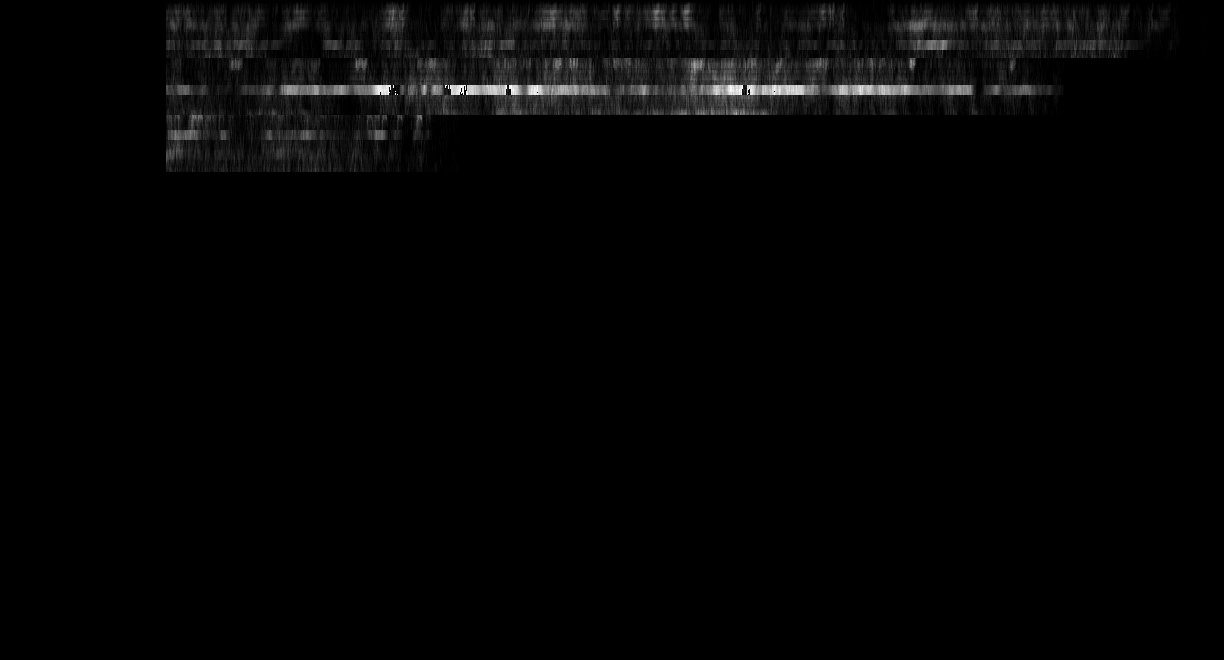
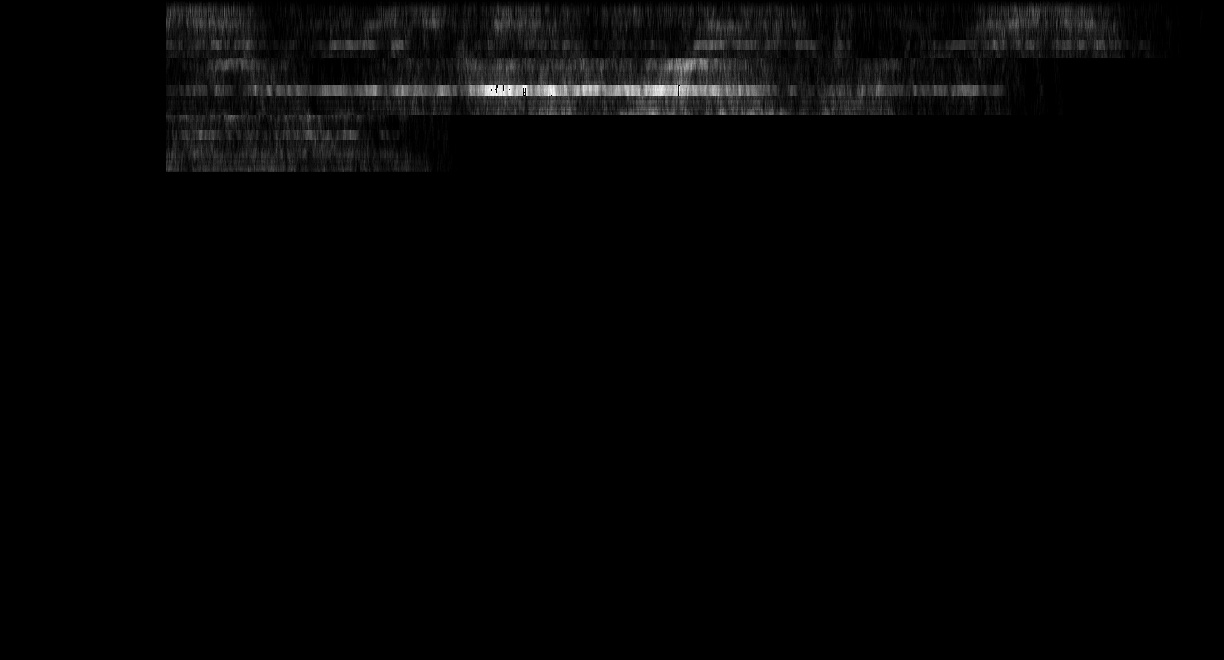
need to get it working

Changed region(s): [[0.1242, 0.0, 0.9003, 0.2727], [0.3105, 0.2424, 0.3415, 0.2727]]

diff --git a/dartboard.cpp b/dartboard.cpp
@@ -246,7 +246,11 @@ void houghLines(Mat &sobelMag, Mat &sobelGrad, Mat &lines, Mat &houghSpaceLines)
 			if (imageVal == 255)
 			{
 				float tolerance = 5;
-				float gradient = theta;
+				float gradient = theta + 90;
+				if (gradient > 180)
+				{
+					gradient = gradient - 180;
+				}
 				float minGrad = gradient - tolerance;
 				if (minGrad < 0)
 				{
